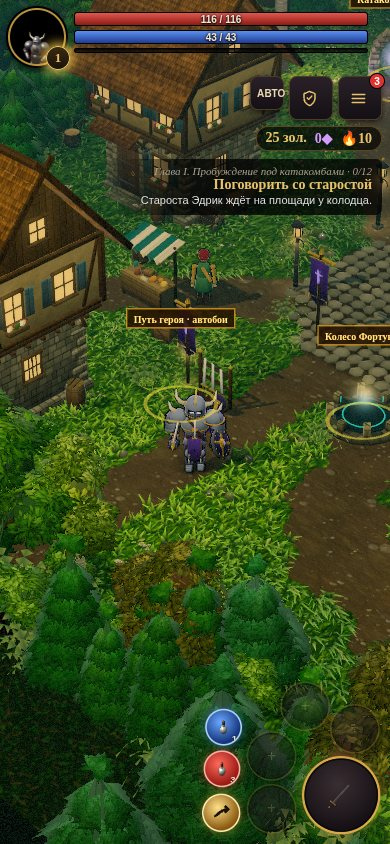
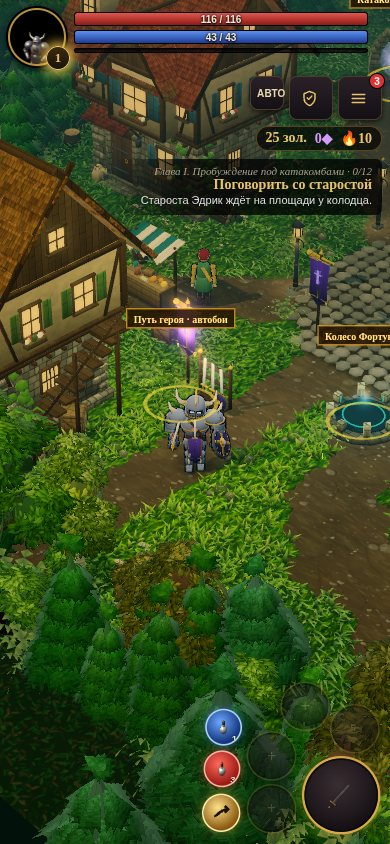
Дома деревни: крупнее и разные — таверна с угловой башней, балконом и вывеской (3 этажа), дом ремесленника с поперечным фронтоном и мансардой, дом у пруда с мансардами и наружной лестницей; дранка кусками с мхом, плющ; дома переставлены вокруг площади, коллизии увеличены
Claude-Session: https://claude.ai/code/session_019dmheuTLkyXNNfx5MW67aV

diff --git a/js/render3d/models/prop/_house.js b/js/render3d/models/prop/_house.js
@@ -83,12 +83,20 @@ export function house(kit, o) {
   }
   // ---- крыша: крутая, свес 0.55, толстые ряды дранки внахлёст, лёгкая кривизна
   const pitch = 0.86, half = D2 / 2 + 0.7, slope = half / Math.cos(pitch), rise = Math.tan(pitch) * (D2 / 2), len = W2 + 1.0, rows = 8;
-  for (const s of [-1, 1]) for (let i = 0; i < rows; i++) {
-    const t0 = i / rows, rw = slope / rows * 1.45, along = slope * (t0 + 0.5 / rows), drop = Math.sin(pitch) * along, out = Math.cos(pitch) * along;
-    const g = geo.chamferBox(len + (R() - 0.5) * 0.1, 0.16, rw, 0.04); g.rotateX(s * pitch);
-    const c = new THREE.Color(roof).lerp(new THREE.Color(roofTop), 0.15 + R() * 0.5 + (1 - t0) * 0.2);
-    L.push(geo.paint(geo.warp(g.translate((R() - 0.5) * 0.06, y3 + rise + 0.18 - drop + 0.06 * (i % 2), s * out), 0.06, seed + i), c.getHex(), { top: new THREE.Color(roofTop).getHex(), tex: 'roof' }));
-  }
+  const MOSS = new THREE.Color(0x5a7a34), rc0 = new THREE.Color(roof), rc1 = new THREE.Color(roofTop);
+  // ряд дранки — 3–4 куска разного тона, часть тронута мхом (живая, «рисованная» крыша)
+  const roofRow = (s, i, rows, slope, len, y, pitch, along, axis = 'x') => {
+    const t0 = i / rows, rw = slope / rows * 1.45, drop = Math.sin(pitch) * along, out = Math.cos(pitch) * along, n = 3 + (R() < 0.5 ? 1 : 0);
+    for (let k = 0; k < n; k++) {
+      const seg = len / n + 0.12, cx = -len / 2 + (k + 0.5) * len / n + (R() - 0.5) * 0.08;
+      const g = geo.chamferBox(seg, 0.16, rw, 0.04); g.rotateX(s * pitch); g.translate(cx, 0, 0);
+      if (axis === 'z') g.rotateY(Math.PI / 2);
+      const c = rc0.clone().lerp(rc1, 0.15 + R() * 0.5 + (1 - t0) * 0.2); if (R() < 0.18 + t0 * 0.12) c.lerp(MOSS, 0.35 + R() * 0.35);
+      const off = axis === 'z' ? [s * out, 0, 0] : [0, 0, s * out];
+      L.push(geo.paint(geo.warp(g.translate(off[0] + (R() - 0.5) * 0.04, y - drop + 0.06 * (i % 2), off[2]), 0.05, seed + i * 7 + k), c.getHex(), { top: rc1.getHex(), tex: 'roof' }));
+    }
+  };
+  for (const s of [-1, 1]) for (let i = 0; i < rows; i++) roofRow(s, i, rows, slope, len, y3 + rise + 0.18, pitch, slope * (i + 0.5) / rows);
   L.push(bbox(len + 0.1, 0.2, 0.26, 0.05, T, [0, y3 + rise + 0.28, 0], 0, { top: TL, tex: 'woodH' }));
   // щипцы: треугольники из вертикальных досок, ветровые доски крест-накрест у конька
   const tri = new THREE.Shape([new THREE.Vector2(-D2 / 2, 0), new THREE.Vector2(D2 / 2, 0), new THREE.Vector2(0, rise)]);
@@ -104,6 +112,79 @@ export function house(kit, o) {
   L.push(bbox(0.8, ch, 0.8, 0.07, ST, [chx, cy0 + ch / 2, chz], 0, { top: STL, tex: 'stone' }));
   L.push(bbox(0.96, 0.16, 0.96, 0.04, 0x3a362e, [chx, cy0 + ch, chz], 0, { top: 0x6a6252, tex: 'stone' }));
   L.push(bbox(0.46, 0.24, 0.46, 0.03, 0x24242a, [chx, cy0 + ch + 0.16, chz], 0, { top: 0x4a4a52, tex: 'metal' }));
+  // ---- особенности дома (o.cross, o.dormers, o.tower, o.balcony, o.stairs, o.sign, o.ivy)
+  if (o.cross) {   // поперечный фронтон: выступ верхних этажей на фасаде с собственной двускатной крышей коньком к камере
+    const CW = 2.6, cx = W * 0.16, cz0 = D2 / 2, CD = 0.7, r2 = Math.tan(pitch) * (CW / 2);
+    L.push(part(new THREE.BoxGeometry(CW, UH, CD), wall, [cx, y2 + UH / 2, cz0 + CD / 2 - 0.03], 0, 1, { top: wallTop, tex: 'plaster' }));
+    for (const sx of [-1, 1]) L.push(bbox(0.18, UH + 0.04, 0.18, 0.03, T, [cx + sx * CW / 2, y2 + UH / 2, cz0 + CD], 0, { top: TL, tex: 'wood' }));
+    for (const y of [y2 + 0.07, y3 - 0.07]) L.push(bbox(CW + 0.04, 0.16, 0.13, 0.025, T, [cx, y, cz0 + CD + 0.03], 0, { top: TL, tex: 'woodH' }));
+    for (let f = 0; f < floors - 1; f++) win(cx, cz0 + CD, y2 + f * (uf + 0.24) + uf * 0.52, 0, 1.1, 1.0, true);
+    const tri2 = new THREE.Shape([new THREE.Vector2(-CW / 2, 0), new THREE.Vector2(CW / 2, 0), new THREE.Vector2(0, r2)]);
+    const g2 = new THREE.ExtrudeGeometry(tri2, { depth: CD + D2 / 2, bevelEnabled: false }); g2.translate(cx, y3, cz0 + CD - (CD + D2 / 2));
+    L.push(geo.paint(g2, 0x6a4a2c, { top: 0x9a7448, tex: 'wood' }));
+    const sl2 = (CW / 2 + 0.5) / Math.cos(pitch), rows2 = 5;
+    for (const s2 of [-1, 1]) for (let i = 0; i < rows2; i++) {
+      const tmp = L.length; roofRow(s2, i, rows2, sl2, CD + D2 / 2 + 0.6, y3 + r2 + 0.18, pitch, sl2 * (i + 0.5) / rows2, 'z');
+      for (let j = tmp; j < L.length; j++) L[j].translate(cx, 0, cz0 + CD + 0.3 - (CD + D2 / 2 + 0.6) / 2);
+    }
+    L.push(bbox(0.2, 0.2, CD + D2 / 2 + 0.7, 0.05, T, [cx, y3 + r2 + 0.28, cz0 + CD + 0.35 - (CD + D2 / 2 + 0.7) / 2], 0, { top: TL, tex: 'woodH' }));
+    for (const s2 of [-1, 1]) { const g = geo.chamferBox(0.09, 0.2, sl2 + 0.2, 0.02); g.rotateX(pitch); g.rotateY(Math.PI / 2 * s2); wood(g.translate(cx + s2 * (Math.cos(pitch) * sl2 / 2 - 0.15), y3 + r2 + 0.2 - Math.sin(pitch) * sl2 / 2, cz0 + CD + 0.32)); }
+  }
+  for (let k = 0; k < (o.dormers || 0); k++) {   // мансардные окна на переднем скате
+    const dxk = -W2 / 2 + W2 * (k + 0.5) / (o.dormers + (o.cross ? 1 : 0)) - (o.cross ? 0.4 : 0), out = D2 / 2 - 0.55, ry = y3 + rise + 0.18 - Math.tan(pitch) * out;
+    L.push(part(new THREE.BoxGeometry(1.0, 1.15, 1.2), wall, [dxk, ry + 0.35, out + 0.1], 0, 1, { top: wallTop, tex: 'plaster' }));
+    win(dxk, out + 0.7, ry + 0.4, 0, 0.55, 0.6, false, false);
+    for (const s2 of [-1, 1]) L.push(geo.paint(geo.chamferBox(0.8, 0.1, 1.5, 0.02).rotateZ(-s2 * 0.75).translate(dxk + s2 * 0.3, ry + 1.15, out + 0.15), rc0.getHex(), { top: rc1.getHex(), tex: 'roof' }));
+  }
+  if (o.tower) {   // угловая круглая башня: камень внизу, штукатурка в фахверке выше, коническая крыша с латунным навершием
+    const tx = W / 2 - 0.45, tz = D / 2 - 0.45, TR = 1.2, th = y3 + rise * 0.55;
+    L.push(part(new THREE.CylinderGeometry(TR + 0.08, TR + 0.15, y1 + 0.1, 16), ST, [tx, (y1 + 0.1) / 2, tz], 0, 1, { top: STL, tex: 'stone' }));
+    L.push(part(new THREE.CylinderGeometry(TR + 0.2, TR + 0.2, 0.2, 16), T, [tx, y1 + 0.1, tz], 0, 1, { top: TL, tex: 'woodH' }));
+    L.push(part(new THREE.CylinderGeometry(TR + 0.12, TR + 0.12, th - y1 - 0.2, 16), wall, [tx, y1 + 0.2 + (th - y1 - 0.2) / 2, tz], 0, 1, { top: wallTop, tex: 'plaster' }));
+    for (let i = 0; i < 8; i++) { const a = i / 8 * 6.283; L.push(bbox(0.12, th - y1 - 0.2, 0.12, 0.02, T, [tx + Math.cos(a) * (TR + 0.14), y1 + 0.2 + (th - y1 - 0.2) / 2, tz + Math.sin(a) * (TR + 0.14)], [0, -a, 0], { top: TL, tex: 'wood' })); }
+    for (let f = 0; f < floors - 1; f++) for (const a of [0.35, 1.2]) {
+      const wx = tx + Math.sin(a) * (TR + 0.16), wz = tz + Math.cos(a) * (TR + 0.16), yy = y2 + f * (uf + 0.24) + uf * 0.52;
+      L.push(part(new THREE.BoxGeometry(0.55, 0.75, 0.08), 0xffc070, [wx, yy, wz], [0, a, 0], 1, { emit: true }));
+      L.push(bbox(0.7, 0.9, 0.06, 0.015, T, [wx - Math.sin(a) * 0.02, yy, wz - Math.cos(a) * 0.02], [0, a, 0], { top: TL, tex: 'wood' }));
+    }
+    const cr = TR + 0.55, ch2 = 3.2;
+    for (let i = 0; i < 6; i++) {   // конус из шести колец дранки
+      const t0 = i / 6, r0 = cr * (1 - t0), r1 = cr * (1 - t0 - 1 / 6) + 0.05;
+      const c = rc0.clone().lerp(rc1, 0.2 + t0 * 0.6 + R() * 0.15); if (R() < 0.25) c.lerp(MOSS, 0.4);
+      L.push(part(new THREE.CylinderGeometry(Math.max(0.05, r1), r0, ch2 / 6 + 0.12, 16, 1, true), c.getHex(), [tx, th + ch2 * (t0 + 0.5 / 6), tz], 0, 1, { top: rc1.getHex(), tex: 'roof' }));
+    }
+    L.push(part(new THREE.CylinderGeometry(cr, cr + 0.05, 0.12, 16), T, [tx, th + 0.05, tz], 0, 1, { top: TL, tex: 'woodH' }));
+    L.push(part(new THREE.CylinderGeometry(0.03, 0.03, 1.0, 6), PAL.brassD, [tx, th + ch2 + 0.4, tz]), part(new THREE.SphereGeometry(0.12, 8, 6), PAL.brass, [tx, th + ch2 + 0.15, tz]));
+    L.push(part(new THREE.BoxGeometry(0.5, 0.3, 0.02), 0x35205f, [tx + 0.27, th + ch2 + 0.7, tz], 0, 1, { top: 0x7a4cd8, tex: 'cloth' }));
+  }
+  if (o.balcony) {   // балкон второго этажа на фасаде: настил, перила с балясинами, дверь
+    const bx = -W2 * 0.12, bw = 2.6, bz = D2 / 2 + 0.5, by = y2;
+    L.push(bbox(bw, 0.14, 1.0, 0.03, T, [bx, by, bz], 0, { top: TL, tex: 'woodH' }));
+    for (const s2 of [-1, 1]) wood(geo.chamferBox(0.12, 1.0, 0.12, 0.02).rotateX(0.7).translate(bx + s2 * (bw / 2 - 0.2), by - 0.45, D2 / 2 + 0.2));
+    L.push(bbox(bw, 0.08, 0.1, 0.02, T, [bx, by + 0.95, bz + 0.45], 0, { top: TL, tex: 'woodH' }));
+    for (const s2 of [-1, 1]) L.push(bbox(0.1, 0.08, 1.0, 0.02, T, [bx + s2 * bw / 2, by + 0.95, bz], 0, { top: TL, tex: 'woodH' }));
+    for (let i = 0; i <= 10; i++) L.push(part(new THREE.CylinderGeometry(0.035, 0.035, 0.85, 5), T, [bx - bw / 2 + bw * i / 10, by + 0.5, bz + 0.45], 0, 1, { top: TL, tex: 'wood' }));
+    L.push(bbox(0.9, 1.7, 0.08, 0.015, 0x4a2c18, [bx, by + 0.95, D2 / 2 + 0.02], 0, { top: 0x7a5232, tex: 'wood' }));
+  }
+  if (o.stairs) {   // наружная лестница на второй этаж вдоль стены +x
+    const n = 11, sx0 = W / 2 + 0.55;
+    for (let i = 0; i < n; i++) L.push(bbox(0.9, 0.12, 0.42, 0.02, T, [sx0, y0 + (i + 1) * (gf / n), D / 2 - 0.3 - i * 0.36], 0, { top: TL, tex: 'woodH' }));
+    L.push(bbox(0.9, 0.12, 1.0, 0.02, T, [sx0, y1 + 0.1, -D / 2 + 0.4], 0, { top: TL, tex: 'woodH' }));
+    for (const z of [D / 2 - 0.3, 0, -D / 2 + 0.4]) wood(geo.chamferBox(0.12, y1 + 0.1 - (z > 0.2 ? gf * 0.4 : 0), 0.12, 0.02).translate(sx0 + 0.4, (y1 + 0.1 - (z > 0.2 ? gf * 0.4 : 0)) / 2, z));
+    const rl = Math.hypot(gf, n * 0.36), g = geo.chamferBox(0.08, 0.08, rl, 0.02); g.rotateX(Math.atan2(gf, n * 0.36)); wood(g.translate(sx0 + 0.42, y0 + gf / 2 + 0.9, D / 2 - 0.3 - n * 0.18));
+  }
+  if (o.sign) {   // вывеска таверны на кованом кронштейне: кружка Ордена
+    const sx = W / 2 + 0.1, sz = D / 2 + 0.2, sy = y1 - 0.25;
+    L.push(bbox(1.2, 0.07, 0.07, 0.01, 0x24242a, [sx + 0.55, sy + 0.6, sz], 0, { top: 0x5a5a64, tex: 'metal' }));
+    L.push(bbox(0.9, 0.7, 0.07, 0.02, 0x5a3a22, [sx + 0.75, sy, sz], 0, { top: 0x9a7448, tex: 'woodH' }));
+    L.push(bbox(0.95, 0.75, 0.05, 0.02, PAL.brassD, [sx + 0.75, sy, sz - 0.01], 0, { top: PAL.brass }));
+    L.push(part(new THREE.CylinderGeometry(0.15, 0.13, 0.32, 10), PAL.brass, [sx + 0.72, sy - 0.02, sz + 0.05], 0, 1, { top: 0xffe08a }), part(new THREE.TorusGeometry(0.09, 0.025, 4, 8, Math.PI), PAL.brass, [sx + 0.88, sy, sz + 0.05], [0, 0, -Math.PI / 2]));
+    for (const s2 of [-1, 1]) L.push(part(new THREE.CylinderGeometry(0.01, 0.01, 0.3, 3), 0x24242a, [sx + 0.75 + s2 * 0.35, sy + 0.45, sz]));
+  }
+  if (o.ivy) {   // плющ на каменной стене у угла (+x,+z): листва кустиками снизу вверх
+    for (let i = 0; i < 26; i++) { const t = R(), up = t * (gf + 0.6), side = R() < 0.6, x = side ? W / 2 + 0.05 : W / 2 - 0.2 - R() * 1.2, z = side ? D / 2 - 0.2 - R() * 1.4 * (1 - t) : D / 2 + 0.05;
+      L.push(part(new THREE.IcosahedronGeometry(0.16 + R() * 0.14 * (1 - t), 0), R() < 0.3 ? 0x2e5a22 : 0x3e7a2c, [x, y0 + up, z], 0, [1, 0.8, 1], { top: 0x6aa83a })); }
+  }
   // ---- фонарь на кронштейне у двери
   L.push(bbox(0.5, 0.05, 0.05, 0.01, 0x24242a, [dx + DW / 2 + 0.55, y0 + 2.15, dz + 0.1], [0, Math.PI / 2, 0], { top: 0x5a5a64, tex: 'metal' }));
   L.push(bbox(0.18, 0.26, 0.18, 0.02, 0x24242a, [dx + DW / 2 + 0.55, y0 + 1.95, dz + 0.3], 0, { top: 0x5a5a64, tex: 'metal' }));
@@ -117,5 +198,7 @@ export function houseProxy(kit, o) {
   const W = Math.max(o.w, o.d), D = Math.min(o.w, o.d), W2 = W + 0.8, D2 = D + 0.8, y3 = 0.3 + gf + 0.24 + 2.3 * (floors - 1) + 0.24 * (floors - 2);
   const rise = Math.tan(0.86) * (D2 / 2), tri = new THREE.Shape([new THREE.Vector2(-D2 / 2 - 0.7, 0), new THREE.Vector2(D2 / 2 + 0.7, 0), new THREE.Vector2(0, rise + 0.8)]);
   const roof = new THREE.ExtrudeGeometry(tri, { depth: W2 + 1.0, bevelEnabled: false }); roof.translate(0, y3 - 0.6, -(W2 + 1.0) / 2); roof.rotateY(Math.PI / 2);
-  return merge([part(new THREE.BoxGeometry(W, y3, D), 0, [0, y3 / 2, 0]), part(new THREE.BoxGeometry(W2, y3 - gf, D2), 0, [0, gf + (y3 - gf) / 2 + 0.3, 0]), part(roof, 0), part(new THREE.BoxGeometry(0.8, 2.5, 0.8), 0, [-W * 0.28, y3 + rise, -D2 * 0.18])]);
+  const L = [part(new THREE.BoxGeometry(W, y3, D), 0, [0, y3 / 2, 0]), part(new THREE.BoxGeometry(W2, y3 - gf, D2), 0, [0, gf + (y3 - gf) / 2 + 0.3, 0]), part(roof, 0), part(new THREE.BoxGeometry(0.8, 2.5, 0.8), 0, [-W * 0.28, y3 + rise, -D2 * 0.18])];
+  if (o.tower) L.push(part(new THREE.CylinderGeometry(1.3, 1.3, y3 + rise * 0.55, 8), 0, [W / 2 - 0.45, (y3 + rise * 0.55) / 2, D / 2 - 0.45]), part(new THREE.ConeGeometry(1.75, 3.2, 8), 0, [W / 2 - 0.45, y3 + rise * 0.55 + 1.6, D / 2 - 0.45]));
+  return merge(L);
 }

diff --git a/js/world/zone.js b/js/world/zone.js
@@ -23,7 +23,7 @@ const PROP = {
   stall: { spr: 'stall', box: [0.95, 0.45] }, lamp: { spr: 'lamp', r: 0.12, tall: 1, light: { r: 5.5, c: [255, 190, 110], flicker: 0.5, z: 1.9 } },
   tree_0: { spr: 'tree_0', r: 0.3, tall: 1 }, tree_1: { spr: 'tree_1', r: 0.3, tall: 1 },
   hay: { spr: 'hay', r: 0.45 }, grave: { spr: 'grave', r: 0.2 }, fence_x: { spr: 'fence_x', box: [0.5, 0.08] }, fence_y: { spr: 'fence_y', box: [0.08, 0.5] },
-  house_0: { spr: 'house_0', box: [2.45, 1.95], tall: 1 }, house_1: { spr: 'house_1', box: [2.85, 2.15], tall: 1 }, house_2: { spr: 'house_2', box: [2.15, 2.05], tall: 1 },   // под крупные 3D-дома (ART_BIBLE, раздел 7)
+  house_0: { spr: 'house_0', box: [2.85, 2.2], tall: 1 }, house_1: { spr: 'house_1', box: [3.25, 2.4], tall: 1 }, house_2: { spr: 'house_2', box: [2.95, 2.2], tall: 1 },   // под крупные 3D-дома (ART_BIBLE, раздел 7)
   shrine: { spr: 'altar', r: 0.45, light: { r: 3, c: [190, 140, 255], flicker: 0.3 } },
 };
 

diff --git a/js/render3d/models/prop/house_1.js b/js/render3d/models/prop/house_1.js
@@ -1,2 +1,3 @@
+// Таверна «Кружка Ордена»: три этажа, угловая круглая башня с конической крышей и флажком, балкон, вывеска. Генератор — _house.js.
 import { house, houseProxy } from './_house.js';
-export default { id: 'house_1', kind: 'prop', outline: false, opts: { w: 5.4, d: 4.0, floors: 3, wall: 0x6a6058, wallTop: 0xb0a490, roof: 0x343a50, roofTop: 0x6c7898, seed: 2 }, shadowProxy(kit) { return houseProxy(kit, this.opts); }, build(kit) { return house(kit, this.opts); } };
+export default { id: 'house_1', kind: 'prop', outline: false, opts: { w: 6.2, d: 4.4, floors: 3, tower: true, balcony: true, sign: true, wall: 0x6a6058, wallTop: 0xc8b8a0, roof: 0x343a50, roofTop: 0x6c7898, shutter: 0x5a2a20, shutterL: 0xa04a3a, seed: 2 }, shadowProxy(kit) { return houseProxy(kit, this.opts); }, build(kit) { return house(kit, this.opts); } };

diff --git a/js/render3d/models/prop/house_2.js b/js/render3d/models/prop/house_2.js
@@ -1,2 +1,3 @@
+// Дом у пруда: два этажа, мансардные окна, наружная лестница на второй этаж, плющ. Генератор — _house.js.
 import { house, houseProxy } from './_house.js';
-export default { id: 'house_2', kind: 'prop', outline: false, opts: { w: 4.0, d: 3.8, floors: 2, gf: 2.6, wall: 0x84704c, wallTop: 0xd0b27a, roof: 0x6a3a1c, roofTop: 0xc07a3a, seed: 3 }, shadowProxy(kit) { return houseProxy(kit, this.opts); }, build(kit) { return house(kit, this.opts); } };
+export default { id: 'house_2', kind: 'prop', outline: false, opts: { w: 4.6, d: 4.0, floors: 2, gf: 2.6, dormers: 2, stairs: true, ivy: true, wall: 0x84704c, wallTop: 0xe0c48a, roof: 0x6a3a1c, roofTop: 0xc07a3a, shutter: 0x3a5a2a, shutterL: 0x6a9a4a, seed: 3 }, shadowProxy(kit) { return houseProxy(kit, this.opts); }, build(kit) { return house(kit, this.opts); } };

diff --git a/js/render3d/models/prop/house_0.js b/js/render3d/models/prop/house_0.js
@@ -1,2 +1,3 @@
+// Дом ремесленника: два этажа, поперечный фронтон над фасадом, мансардное окно, плющ. Генератор — _house.js.
 import { house, houseProxy } from './_house.js';
-export default { id: 'house_0', kind: 'prop', outline: false, opts: { w: 4.6, d: 3.6, floors: 2, wall: 0x7a6a50, wallTop: 0xc8b088, roof: 0x6a2a1e, roofTop: 0xc8603e, seed: 1 }, shadowProxy(kit) { return houseProxy(kit, this.opts); }, build(kit) { return house(kit, this.opts); } };
+export default { id: 'house_0', kind: 'prop', outline: false, opts: { w: 5.4, d: 4.0, floors: 2, cross: true, dormers: 1, ivy: true, wall: 0x7a6a50, wallTop: 0xd8c098, roof: 0x6a2a1e, roofTop: 0xc8603e, seed: 1 }, shadowProxy(kit) { return houseProxy(kit, this.opts); }, build(kit) { return house(kit, this.opts); } };

diff --git a/js/render3d/props.js b/js/render3d/props.js
@@ -72,7 +72,7 @@ export class PropLayer {
     };
     const trees = zone.statics.filter(d => d.spr === 'tree_0' || d.spr === 'tree_1');   // в статике карты — исходные tree_0/tree_1
     // хлам у домов: у видимых стен (+x, +z) — бочки, ящики, мешки, поленница; вплотную к стене, где герой почти не ходит
-    const HB = { house_0: [2.3, 1.8], house_1: [2.7, 2.0], house_2: [2.0, 1.9] };
+    const HB = { house_0: [2.7, 2.0], house_1: [3.1, 2.2], house_2: [2.3, 2.0] };
     for (const d of zone.statics) {
       const hb = HB[d.spr]; if (!hb) continue;
       const h = hash(d.x, d.y), [hx, hz] = hb;

diff --git a/docs/ART_BIBLE.md b/docs/ART_BIBLE.md
@@ -88,7 +88,7 @@ bloom «dual filter» (порог 0.92, мягкое колено 0.35, сила
 ## 7. Деревья и окружение
 **Кроны — «карточки» листвы** (`_foliage.js`): квад из 2 треугольников с рисованной текстурой-кистью листьев (`leafTex`) или еловой лапы (`pineTex`), альфа-вырез 0.5. Текстура генерируется на canvas, светло-серо-зелёная; оттенок даёт цвет вершины: низ доли и глубина темнее и холоднее, верх и сторона к солнцу — тёплый жёлто-зелёный. Нормали загнуты от центра доли — крона светится мягким шаром, без чёрных провалов. Внутри доли — средне-зелёный заполнитель (не тёмный), кроны **не принимают** тени (иначе тёмные пятна от собственных заменителей). Ель — ярусы свисающих лап вокруг светлого конуса. Ствол и ветки в той же геометрии (UV в сплошном углу текстуры): дерево = 1 меш. Ель ≈ 120, лиственное ≈ 550 треугольников — в разы меньше прежних пластин при более живом силуэте.
 **Породы деревьев:** в карте стоят `tree_0` (лиственное) и `tree_1` (хвойное), а породу выбирает слой окружения по позиции (`TREE_KINDS` в `registry.js`): дуб, вяз (крупный, раскидистый), берёза (светлый ствол, узкая светлая крона), осенний клён (рыжий), ель, высокая ель, голубая пихта; наборы смешаны, лес не однородный. Каждый экземпляр получает свой оттенок (`tint`: светлее/темнее, теплее/холоднее, через instanceColor — без лишних вызовов) и размер 0,85–1,4.
-**Дома** (`_house.js`) в масштабе «герой может войти» (герой ≈ 2,2 м): каменный первый этаж 2,8 м с угловыми камнями вперевязку, арочная дверь 2,3 м под навесом, нависающие на 0,4 м верхние этажи по 2,3 м в фахверке (пояса балок, раскосы, стойки, ряды окон со ставнями и цветами), крутая крыша (≈ 49°) со свесом 0,7 м из восьми толстых рядов дранки, щипец из досок, массивная труба, фонарь. `floors: 2` — дом ≈ 8 м (≈ 3,6 роста героя), `floors: 3` — ≈ 11 м (≈ 5 ростов). Пятно на земле 4,0–5,4 × 3,6–4,0 м (коллайдеры `house_*` в `js/world/zone.js` увеличены, дома в `village.json` переставлены на свободную траву; часть домов стоит у кромки леса и не обходится кругом). Тень дома — от простой коробки и призмы крыши (`houseProxy`).
+**Дома** (`_house.js`) в масштабе «герой может войти» (герой ≈ 2,2 м): каменный первый этаж 2,6–2,8 м с угловыми камнями вперевязку, арочная дверь под навесом, нависающие на 0,4 м верхние этажи по 2,3 м в фахверке, крутая крыша (≈ 49°) со свесом 0,7 м из толстых рядов дранки — каждый ряд из 3–4 кусков разного тона, часть тронута мхом. Опции силуэта: `cross` — поперечный фронтон над фасадом со своей крышей, `dormers` — мансардные окна, `tower` — угловая круглая башня с конической крышей и флажком, `balcony`, `stairs` — наружная лестница, `sign` — вывеска, `ivy` — плющ. В деревне три дома: дом ремесленника (2 этажа, фронтон, мансарда, ≈ 9 м), таверна «Кружка Ордена» (3 этажа, башня ≈ 14 м — около 6 ростов героя, балкон, вывеска), дом у пруда (2 этажа, две мансарды, лестница). Пятно на земле 4,6–6,2 × 4,0–4,4 м (коллайдеры в `js/world/zone.js`), дома стоят вокруг площади, таверна — у северного края. Тень дома — от коробки, призмы крыши и цилиндра башни (`houseProxy`).
 Формы — «рубленые» с фасками (`kit.bbox`), лёгкая кривизна ручной работы (`geo.warp`).
 **Плотность:** декор земли расставляется по карте (`PropLayer.scatterDecor`): папоротники, кусты и пни с поваленными брёвнами у кромки леса, цветы пятнами, камешки у троп, грибы под деревьями; у видимых стен домов — бочки, ящики, мешки, поленницы. Трава — пучки по 4 травинки, гуще у краёв троп, реже вдали (LOD по чанкам). Вода — тёмная глубина, рябь, блики.
 
